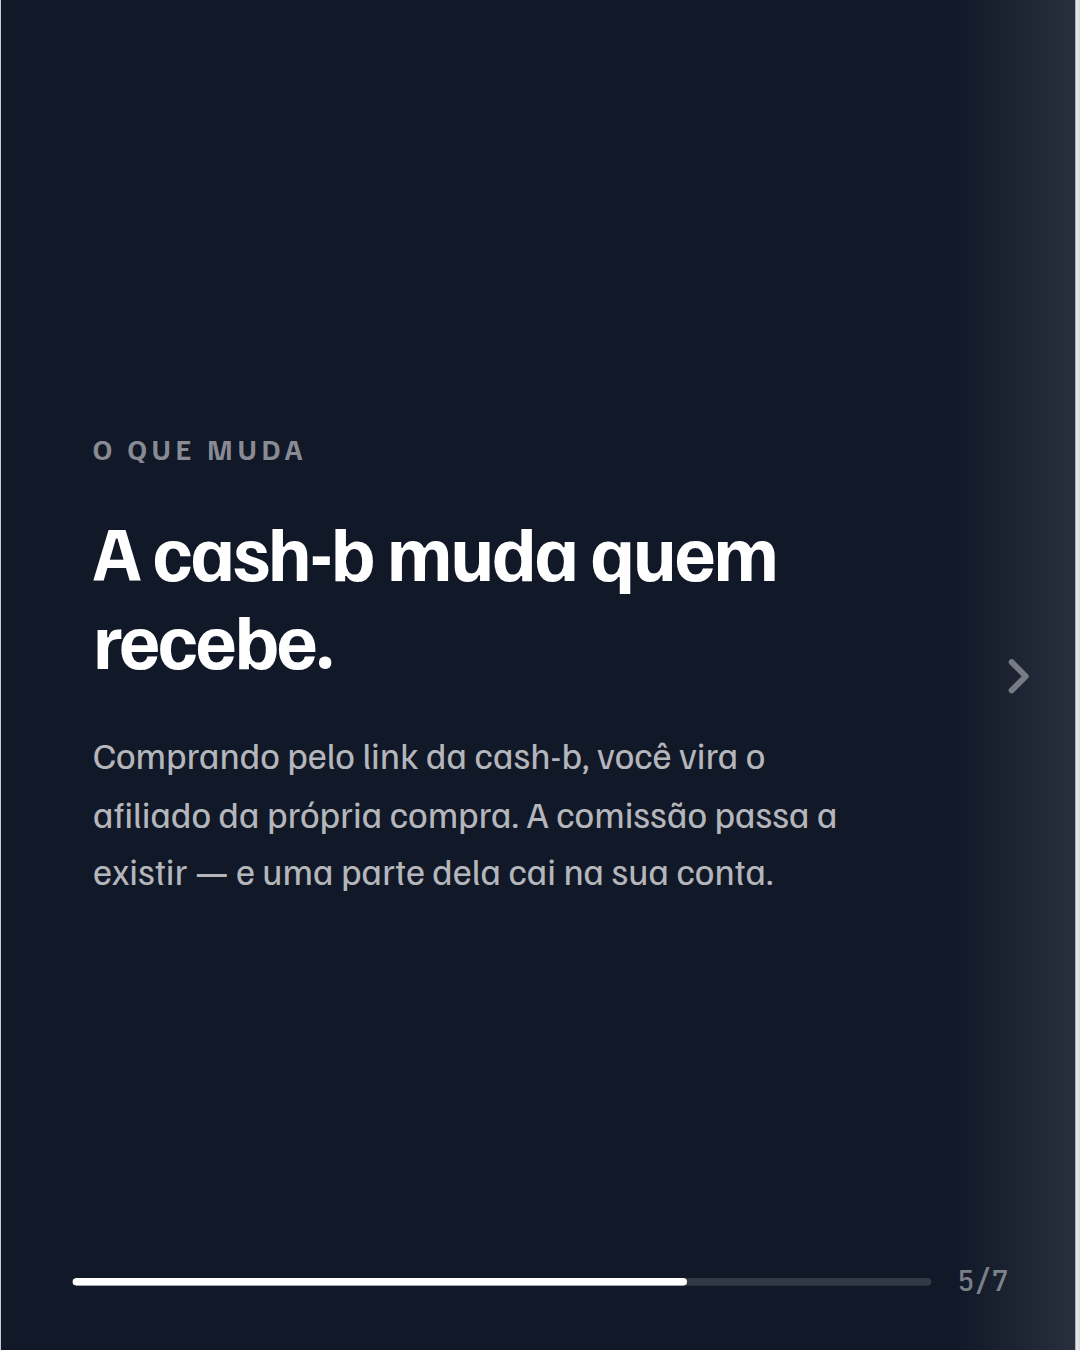
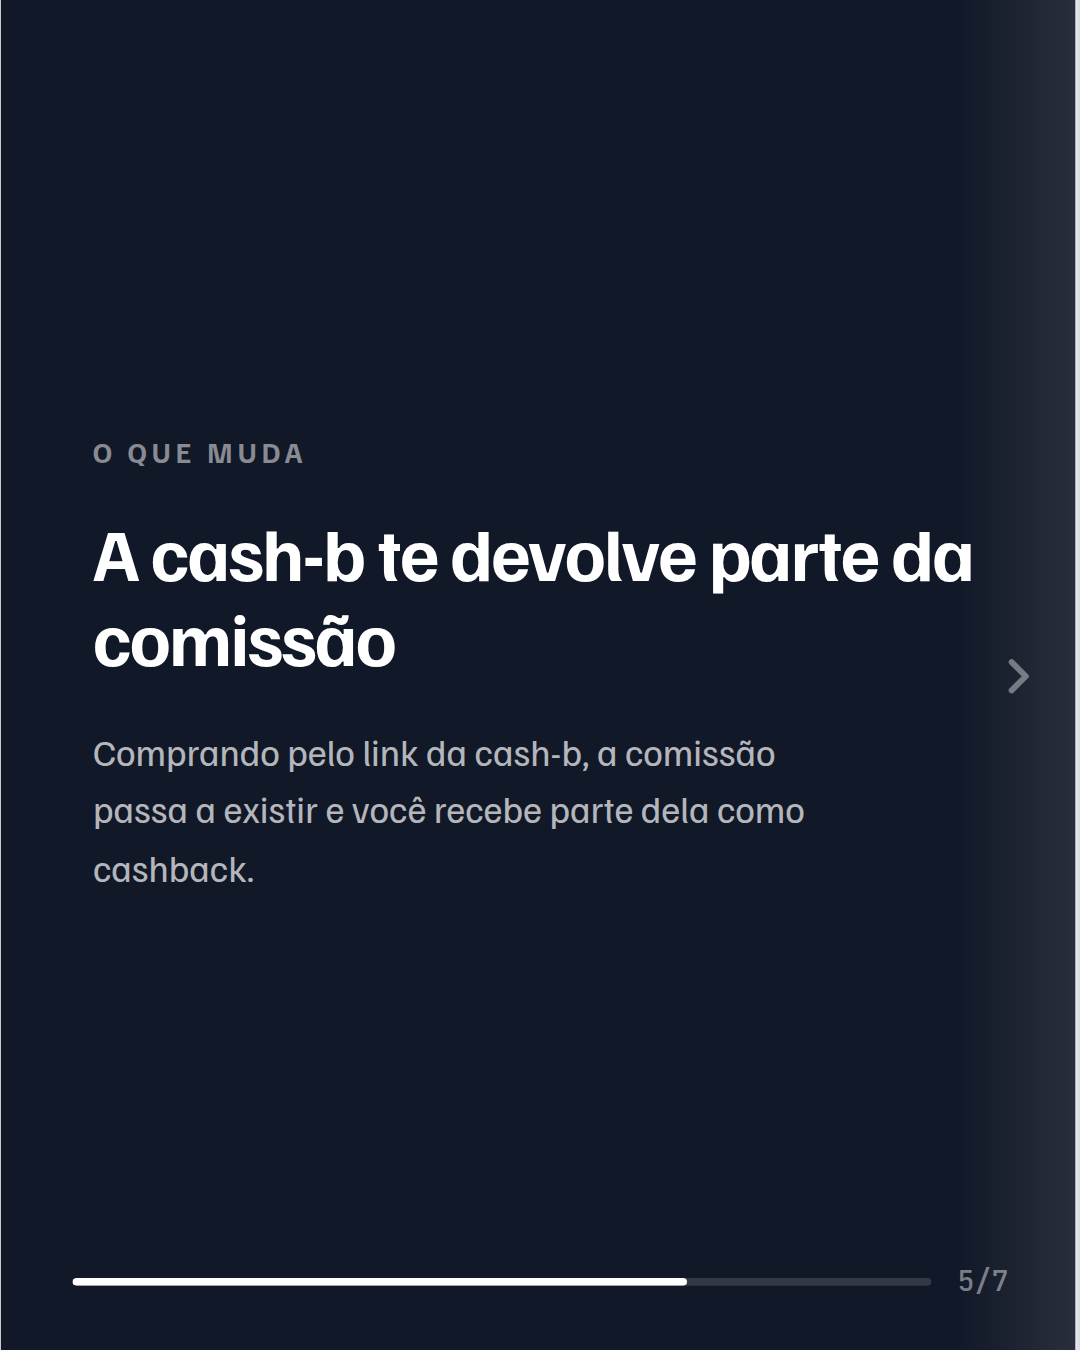
Ajusta textos dos slides 4 a 7 do carrossel de gasto anual
- Slide 4: "canal de ofertas" vira "afiliado", que é o termo correto e o mesmo
  usado no resto do material.
- Slide 5: título passa a dizer o benefício direto ("A cash-b te devolve parte
  da comissão") em vez de descrever o mecanismo de forma abstrata.
- Slide 6: a palavra "mínimo" ganha marca-texto laranja - novo helper realce(),
  equivalente ao .mark do brand.css.
- Slide 7: fecha na decisão de compra ("Você ia comprar de qualquer jeito")
  em vez de falar do dinheiro saindo da conta.

Claude-Session: https://claude.ai/code/session_017WZWLEiMQvHUst5KUYseHY

diff --git a/marketing/instagram/carrossel-gasto-anual/preview.html b/marketing/instagram/carrossel-gasto-anual/preview.html
@@ -163,8 +163,8 @@ body {
     
         
     <div style="padding:13px 0; border-bottom:1px solid #e0dcef;">
-        <div style="font-family:Familjen; font-size:12.5px; color:#6b7280; line-height:1.4;">Você entra pelo link de um canal de ofertas</div>
-        <div style="font-family:Familjen; font-size:15px; font-weight:700; color:#111827; margin-top:4px; line-height:1.35;">A comissão vai para esse canal.</div>
+        <div style="font-family:Familjen; font-size:12.5px; color:#6b7280; line-height:1.4;">Você entra pelo link de um afiliado</div>
+        <div style="font-family:Familjen; font-size:15px; font-weight:700; color:#111827; margin-top:4px; line-height:1.35;">A comissão vai pro afiliado.</div>
     </div>
     
     </div>
@@ -202,8 +202,8 @@ body {
                         padding:44px 36px 52px;">
                 
     <span style="display:block; font-family:Familjen; font-size:11px; font-weight:700; letter-spacing:2px; text-transform:uppercase; color:rgba(255,255,255,0.5); margin-bottom:16px;">o que muda</span>
-    <div style="font-family:Familjen; font-size:30px; font-weight:700; line-height:1.16; letter-spacing:-0.025em; color:#fff;">A cash-b muda quem recebe.</div>
-    <div style="font-family:Familjen; font-size:14.5px; color:rgba(255,255,255,0.7); margin-top:16px; line-height:1.55; max-width:305px;">Comprando pelo link da cash-b, você vira o afiliado da própria compra. A comissão passa a existir — e uma parte dela cai na sua conta.</div>
+    <div style="font-family:Familjen; font-size:29px; font-weight:700; line-height:1.16; letter-spacing:-0.025em; color:#fff;">A cash-b te devolve parte da comissão</div>
+    <div style="font-family:Familjen; font-size:14.5px; color:rgba(255,255,255,0.7); margin-top:16px; line-height:1.55; max-width:305px;">Comprando pelo link da cash-b, a comissão passa a existir e você recebe parte dela como cashback.</div>
     
             </div>
             
@@ -231,7 +231,7 @@ body {
                         padding:44px 36px 52px;">
                 
     <span style="display:block; font-family:Familjen; font-size:11px; font-weight:700; letter-spacing:2px; text-transform:uppercase; color:#6d28d9; margin-bottom:16px;">com a cash-b</span>
-    <div style="font-family:Familjen; font-size:24px; font-weight:700; line-height:1.16; letter-spacing:-0.025em; color:#111827;">O mínimo que volta para a sua conta</div>
+    <div style="font-family:Familjen; font-size:24px; font-weight:700; line-height:1.16; letter-spacing:-0.025em; color:#111827;">O <span style="background:#f59e0b; color:#111827; padding:0 0.1em; border-radius:3px; box-decoration-break:clone; -webkit-box-decoration-break:clone;">mínimo</span> que volta para a sua conta</div>
     <div style="margin-top:14px;">
         
     <div style="display:flex; align-items:center; justify-content:space-between;
@@ -288,8 +288,8 @@ body {
             <div style="position:relative; flex:1; display:flex; flex-direction:column; justify-content:center;
                         padding:44px 36px 52px;">
                 
-    <div style="font-family:Familjen; font-size:30px; font-weight:700; line-height:1.16; letter-spacing:-0.025em; color:#fff;">O dinheiro sai da sua conta de qualquer jeito.</div>
-    <div style="font-family:Familjen; font-size:15px; color:rgba(255,255,255,0.9); margin-top:16px; line-height:1.55; max-width:300px;">A diferença é uma parte dele voltar.</div>
+    <div style="font-family:Familjen; font-size:30px; font-weight:700; line-height:1.16; letter-spacing:-0.025em; color:#fff;">Você ia comprar de qualquer jeito.</div>
+    <div style="font-family:Familjen; font-size:15px; color:rgba(255,255,255,0.9); margin-top:16px; line-height:1.55; max-width:300px;">A diferença é que você pode ter dinheiro de volta.</div>
     
     <div style="display:flex; justify-content:center; margin-top:28px;">
         <div style="display:inline-flex; align-items:center; padding:13px 30px; background:#f8fafc;

diff --git a/marketing/instagram/gerar_carrossel_gasto_anual.py b/marketing/instagram/gerar_carrossel_gasto_anual.py
@@ -32,6 +32,7 @@ from carrossel_base import (
     gerar,
     linha_valor,
     numero_gigante,
+    realce,
     subtitulo,
     tag_label,
     titulo,
@@ -64,17 +65,17 @@ SLIDES = [
     {titulo("Quem ganha comissão na sua compra?", 26, DARK_BG)}
     <div style="margin-top:12px;">
         {caso("Você abre o app e compra direto", "Ninguém. A Shopee fica com tudo.")}
-        {caso("Você entra pelo link de um canal de ofertas", "A comissão vai para esse canal.")}
+        {caso("Você entra pelo link de um afiliado", "A comissão vai pro afiliado.")}
     </div>
     {destaque("<b>Nos dois casos, R$ 0,00 para você</b> — que é quem pagou a conta.")}
     """, True),
 
     Slide(DARK_BG, f"""
     {tag_label("o que muda", "rgba(255,255,255,0.5)")}
-    {titulo("A cash-b muda quem recebe.", 30)}
+    {titulo("A cash-b te devolve parte da comissão", 29)}
     {subtitulo(
-        "Comprando pelo link da cash-b, você vira o afiliado da própria compra. "
-        "A comissão passa a existir — e uma parte dela cai na sua conta.",
+        "Comprando pelo link da cash-b, a comissão passa a existir e você recebe "
+        "parte dela como cashback.",
         "rgba(255,255,255,0.7)", 305, 14.5)}
     """, False),
 
@@ -83,7 +84,7 @@ SLIDES = [
     # cinza no rodapé, que é justamente onde a informação morre.
     Slide(LIGHT_BG, f"""
     {tag_label("com a cash-b", BRAND_PRIMARY)}
-    {titulo("O mínimo que volta para a sua conta", 24, DARK_BG)}
+    {titulo(f"O {realce('mínimo')} que volta para a sua conta", 24, DARK_BG)}
     <div style="margin-top:14px;">
         {linha_valor("Gastando R$ 100 por mês", "R$ 19+ /ano")}
         {linha_valor("Gastando R$ 300 por mês", "R$ 57+ /ano")}
@@ -93,8 +94,8 @@ SLIDES = [
     """, True),
 
     Slide(BRAND_GRADIENT, f"""
-    {titulo("O dinheiro sai da sua conta de qualquer jeito.", 30)}
-    {subtitulo("A diferença é uma parte dele voltar.", "rgba(255,255,255,0.9)", 300, 15)}
+    {titulo("Você ia comprar de qualquer jeito.", 30)}
+    {subtitulo("A diferença é que você pode ter dinheiro de volta.", "rgba(255,255,255,0.9)", 300, 15)}
     {cta_pill()}
     """, False, seta=False),
 ]

diff --git a/marketing/instagram/carrossel_base.py b/marketing/instagram/carrossel_base.py
@@ -127,6 +127,15 @@ def numero_gigante(valor, legenda, cor=HIGHLIGHT, cor_legenda="rgba(255,255,255,
     """
 
 
+def realce(texto):
+    """Marca-texto no estilo da marca (equivalente ao .mark do brand.css). Usar no
+    máximo uma vez por slide - o efeito só funciona enquanto for exceção."""
+    return (
+        f'<span style="background:{HIGHLIGHT}; color:{DARK_BG}; padding:0 0.1em; '
+        f'border-radius:3px; box-decoration-break:clone; -webkit-box-decoration-break:clone;">{texto}</span>'
+    )
+
+
 def caso(situacao, resultado, escuro=False):
     """Bloco "situação -> resultado", para comparar cenários lado a lado (ex: comprar
     direto na Shopee x comprar pelo link de alguém)."""
